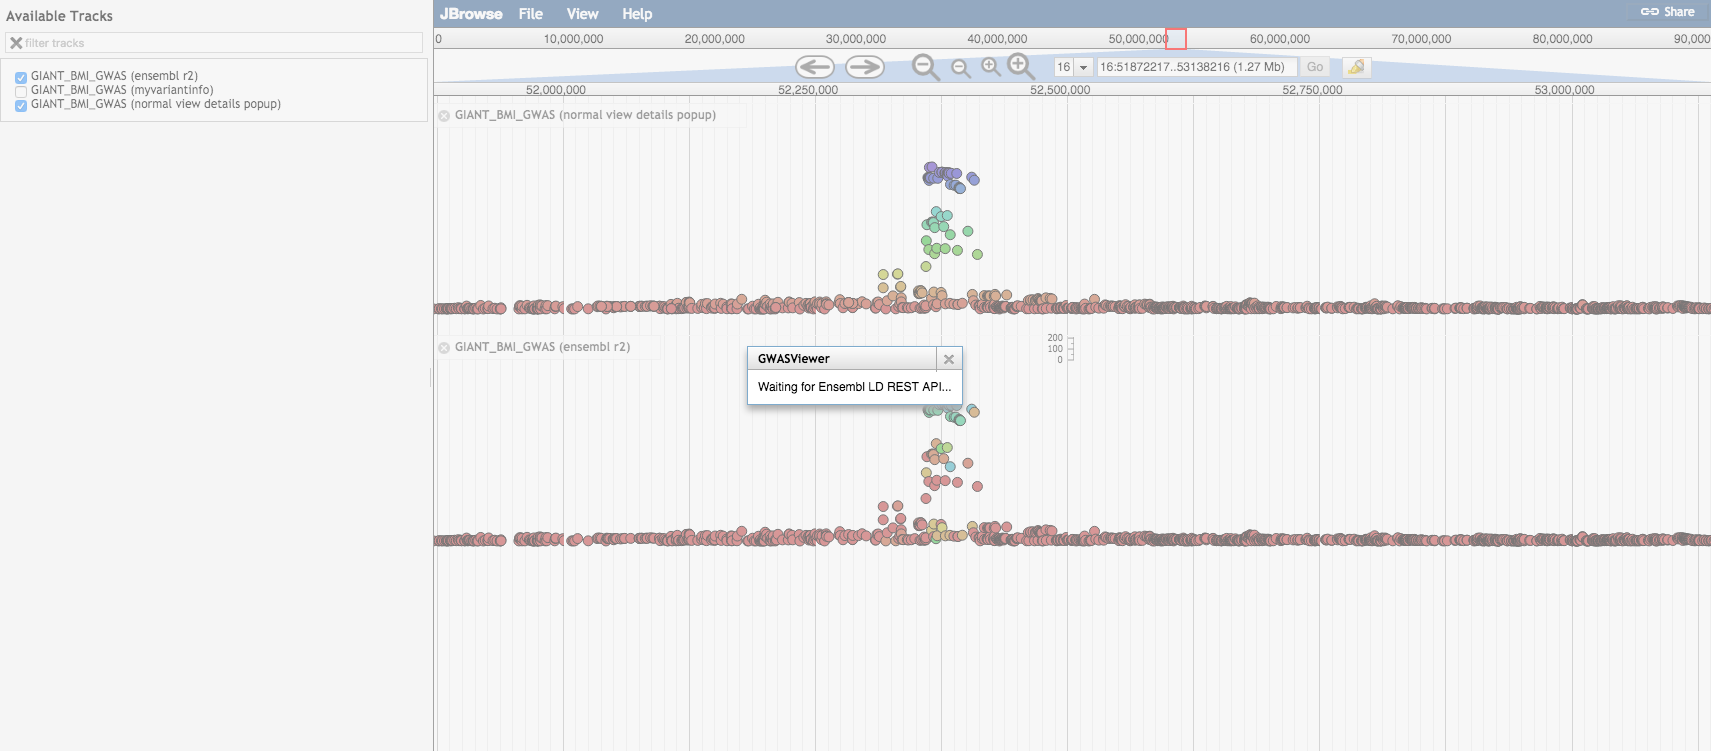
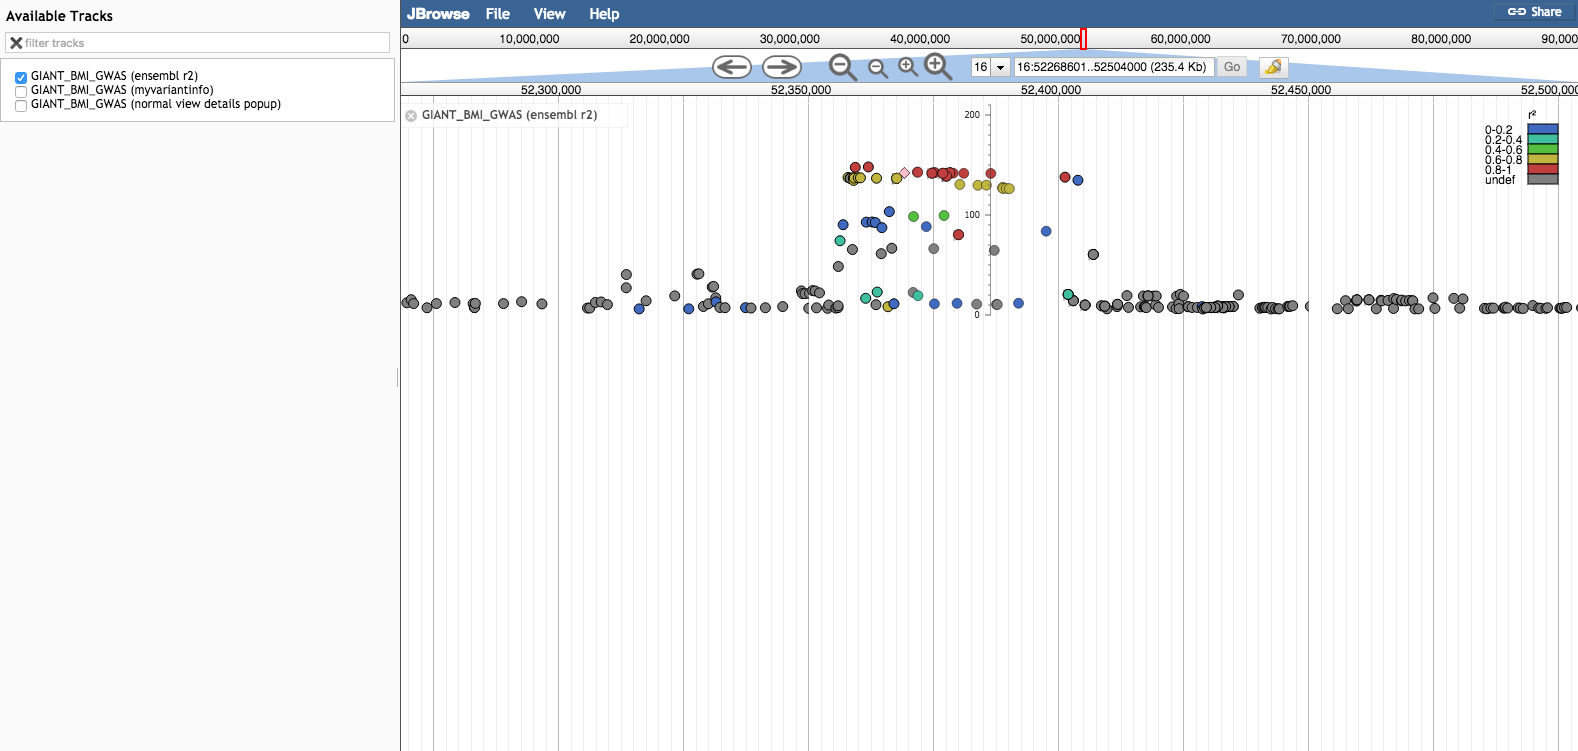
Add click to get diamond symbol

diff --git a/js/View/Track/VariantPlotter.js b/js/View/Track/VariantPlotter.js
@@ -23,9 +23,15 @@ function (
             this.featMap = {};
         },
         _defaultConfig: function () {
+            var thisB = this;
             return Util.deepUpdate(lang.clone(this.inherited(arguments)),
                 {
-                    glyph: 'GWASViewer/View/FeatureGlyph/Circle',
+                    glyph: function(feat) {
+                        if(feat.get('name') == thisB.curr) {
+                            return 'GWASViewer/View/FeatureGlyph/Diamond';
+                        }
+                        return 'GWASViewer/View/FeatureGlyph/Circle'
+                    },
                     maxHeight: 210,
                     width: 10,
                     heightScaler: 1,
@@ -43,6 +49,7 @@ function (
                             var track = this.track;
                             var d;
                             if (track.config.useEnsemblR2) {
+                                track.curr = feature.get('name');
                                 d = new Dialog({ content: 'Waiting for Ensembl LD REST API...', title: 'GWASViewer' });
                                 d.show();
                                 request(track.config.useEnsemblURL + feature.get('name') + track.config.useEnsemblArgs, {
@@ -86,7 +93,17 @@ function (
                     style: {
                         color: function (feature, label, glyph, track) {
                             if (Object.keys(track.featMap).length) {
-                                return 'hsl(' + (track.featMap[feature.get('name')] * 220 || 0) + ',50%,50%)';
+                                var n = feature.get('name');
+                                if(n == track.curr) {
+                                    return 'pink';
+                                }
+                                var r = track.featMap[n];
+                                if (!r) return 'grey';
+                                if (r < 0.2) { return 'hsl(220,50%,50%)'; }
+                                if (r < 0.4) { return 'hsl(165,50%,50%)'; }
+                                if (r < 0.6) { return 'hsl(110,50%,50%)'; }
+                                if (r < 0.8) { return 'hsl(55,50%,50%)'; }
+                                return 'hsl(0,50%,50%)';
                             }
                             return 'hsl(' + (-Math.log(feature.get('score')) * 1.8) + ',50%,50%)';
                         },
@@ -100,6 +117,54 @@ function (
 
             if (this.config.useYAxis) {
                 this.makeHistogramYScale(this.config.maxHeight, 0, this.config.maxHeight / this.config.heightScaler);
+            }
+        },
+
+        updateStaticElements: function () {
+            this.inherited(arguments);
+            if (Object.keys(this.featMap).length) {
+                var context = this.staticCanvas.getContext('2d');
+                context.fillStyle = 'black';
+                context.font = 'normal 12px sans-serif';
+                context.fillText('r²', this.staticCanvas.width - 50, 15);
+                context.translate(0, 20);
+                context.fillText('0-0.2', this.staticCanvas.width - 93, 10);
+                context.fillText('0.2-0.4', this.staticCanvas.width - 93, 20);
+                context.fillText('0.4-0.6', this.staticCanvas.width - 93, 30);
+                context.fillText('0.6-0.8', this.staticCanvas.width - 93, 40);
+                context.fillText('0.8-1', this.staticCanvas.width - 93, 50);
+                context.fillText('undef', this.staticCanvas.width - 93, 60);
+                context.beginPath();
+                context.strokeStyle = 'black';
+                context.rect(this.staticCanvas.width - 50, 0, 30, 10);
+                context.fillStyle = 'hsl(220,50%,50%)';
+                context.fill();
+                context.stroke();
+                context.beginPath();
+                context.rect(this.staticCanvas.width - 50, 10, 30, 10);
+                context.fillStyle = 'hsl(165,50%,50%)';
+                context.fill();
+                context.stroke();
+                context.beginPath();
+                context.rect(this.staticCanvas.width - 50, 20, 30, 10);
+                context.fillStyle = 'hsl(110,50%,50%)';
+                context.fill();
+                context.stroke();
+                context.beginPath();
+                context.rect(this.staticCanvas.width - 50, 30, 30, 10);
+                context.fillStyle = 'hsl(55,50%,50%)';
+                context.fill();
+                context.stroke();
+                context.beginPath();
+                context.rect(this.staticCanvas.width - 50, 40, 30, 10);
+                context.fillStyle = 'hsl(0,50%,50%)';
+                context.fill();
+                context.stroke();
+                context.beginPath();
+                context.rect(this.staticCanvas.width - 50, 50, 30, 10);
+                context.fillStyle = 'grey';
+                context.fill();
+                context.stroke();
             }
         },
 

diff --git a/js/View/FeatureGlyph/Diamond.js b/js/View/FeatureGlyph/Diamond.js
@@ -1,0 +1,74 @@
+define([
+    'dojo/_base/declare',
+    'dojo/_base/lang',
+    'JBrowse/View/FeatureGlyph/Box'
+],
+function(
+    declare,
+    lang,
+    Box
+) {
+    return declare(Box, {
+        renderBox: function(context, viewInfo, feature, ptop, overallHeight, parentFeature, pstyle) {
+            var left  = viewInfo.block.bpToX(feature.get('start'));
+            var style = pstyle || lang.hitch(this, 'getStyle');
+            var top = ptop;
+
+            var height = this._getFeatureHeight(viewInfo, feature);
+            if (!height) {
+                return;
+            }
+            if (height !== overallHeight) {
+                top += Math.round((overallHeight - height) / 2);
+            }
+
+            var width = height;
+            var bgcolor = style(feature, 'color');
+            if (bgcolor) {
+                context.fillStyle = bgcolor;
+                context.beginPath();
+                context.moveTo(left, top + height / 2);
+                context.lineTo(left + Math.max(1, width) / 2, top);
+                context.lineTo(left + Math.max(1, width), top + height / 2);
+                context.lineTo(left + Math.max(1, width) / 2, top + height);
+                context.closePath();
+                context.fill();
+            } else {
+                context.clearRect(left, top, Math.max(1, width), height);
+            }
+
+            var borderColor = 'black'; //style(feature, 'borderColor');
+            var lineWidth = style(feature, 'borderWidth');
+            if (borderColor && lineWidth) {
+                if (width > 3) {
+                    context.lineWidth = lineWidth;
+                    context.strokeStyle = borderColor;
+
+                   // need to stroke a smaller rectangle to remain within
+                   // the bounds of the feature's overall height and
+                   // width, because of the way stroking is done in
+                   // canvas.  thus the +0.5 and -1 business.
+                   // context.stroke();
+                    context.beginPath();
+                    context.moveTo(left, top + height / 2);
+                    context.lineTo(left + Math.max(1, width) / 2, top);
+                    context.lineTo(left + Math.max(1, width), top + height / 2);
+                    context.lineTo(left + Math.max(1, width) / 2, top + height);
+                    context.closePath();
+                    context.stroke();
+                } else {
+                    context.globalAlpha = lineWidth * 2 / width;
+                    context.fillStyle = borderColor;
+                    context.beginPath();
+                    context.moveTo(left, top + height / 2);
+                    context.lineTo(left + Math.max(1, width) / 2, top);
+                    context.lineTo(left + Math.max(1, width), top + height / 2);
+                    context.lineTo(left + Math.max(1, width) / 2, top + height);
+                    context.closePath();
+                    context.fill();
+                    context.globalAlpha = 1;
+                }
+            }
+        }
+    });
+});

diff --git a/README.md b/README.md
@@ -68,7 +68,7 @@ Basic GWASViewer track
 
 ![](img/ensembl.png)
 
-Shows dialog waiting for Ensembl LD REST API which colors variants according to R^2 data when you click on a given variant (the coloring by R^2 is shown underneath the dialog too)
+Shows track with `useEnsemblR2` enabled, which fetches R^2 from Ensembl for variants in linkage with a variant that is clicked (pink diamond)
 
 ## Install
 

diff --git a/ChangeLog.md b/ChangeLog.md
@@ -1,6 +1,7 @@
 # Version 0.3.0
 
-- Allow getting LD R^2 color function from Ensembl
+- Allow getting LD R^2 color function from Ensembl with useEnsemblR2
+- Fix useMyVariantInfo popup
 
 # Version 0.2.0
 
